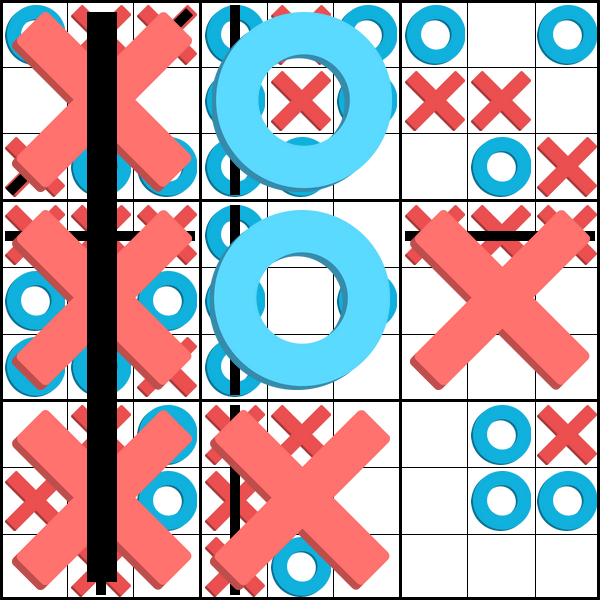
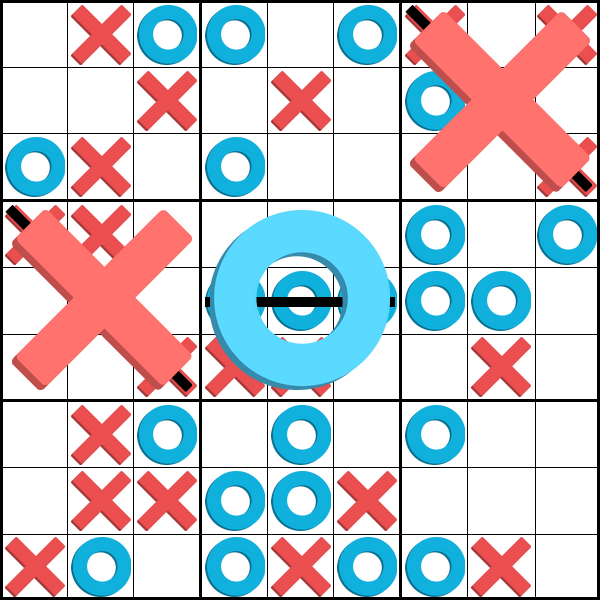
Worked on async function for node-canvas

diff --git a/src/imagecomp-canvas.js b/src/imagecomp-canvas.js
@@ -5,18 +5,60 @@ const { spacePositions, squares, innerSquares } = require('../json/uttt.json');
 const canvas = nodeCanvas.createCanvas(600, 600);
 const ctx = canvas.getContext('2d');
 
-function repeat() {
-	nodeCanvas.loadImage('images/board.png').then(board => {
-		ctx.drawImage(board, 0, 0);
-		nodeCanvas.loadImage('images/tictactoe_O.png').then(piece_O => {
-			const randOne = Math.floor(Math.random() * squares.length);
-			const randTwo = Math.floor(Math.random() * innerSquares.length);
+const boardstate = [];
+let player = 'X';
+let buffer = canvas.toBuffer('image/png');
 
-			ctx.drawImage(piece_O, spacePositions[squares[randOne] + innerSquares[randTwo]][0], spacePositions[squares[randOne] + innerSquares[randTwo]][1], 60, 60);
-			const buffer = canvas.toBuffer('image/png');
-			fs.writeFileSync('./images/image.png', buffer);
+const numTimes = Math.floor(Math.random() * (10 - 1) + 1); // The maximum is exclusive and the minimum is inclusive
+for(let i = 0; i < numTimes; i++) {
+	boardstate.push(`${player}${squares[Math.floor(Math.random() * squares.length)]}${innerSquares[Math.floor(Math.random() * innerSquares.length)]}`);
+	(player === 'X') ? player = 'O' : player = 'X';
+}
+
+// https://stackoverflow.com/questions/18983138/callback-after-all-asynchronous-foreach-callbacks-are-completed
+nodeCanvas.loadImage('images/board.png').then(board => {
+	ctx.drawImage(board, 0, 0);
+	buffer = canvas.toBuffer('image/png');
+
+	const requests = boardstate.map((e) => {
+		return new Promise((resolve) => {
+			if(e.charAt(0) === 'X') {
+				drawX(e.substring(1), resolve);
+			}
+			else {
+				drawO(e.substring(1), resolve);
+			}
+			// asyncFunction(item, resolve);
 		});
+	});
+
+	Promise.all(requests).then(() => {
+		console.log('done');
+		fs.writeFileSync('./images/image.png', buffer);
+	});
+	/*
+	boardstate.forEach(e => {
+		if(e.charAt(0) === 'X') {
+			drawX(e.substring(1));
+		}
+		else {
+			drawO(e.substring(1));
+		}
+	});
+	fs.writeFileSync('./images/image.png', buffer);
+	*/
+});
+
+async function drawO(piece) {
+	nodeCanvas.loadImage('images/tictactoe_O.png').then(piece_O => {
+		ctx.drawImage(piece_O, spacePositions[piece][0], spacePositions[piece][1], 60, 60);
+		buffer = canvas.toBuffer('image/png');
 	});
 }
 
-setInterval(repeat, 2000);
+async function drawX(piece) {
+	nodeCanvas.loadImage('images/tictactoe_X.png').then(piece_X => {
+		ctx.drawImage(piece_X, spacePositions[piece][0], spacePositions[piece][1], 60, 60);
+		buffer = canvas.toBuffer('image/png');
+	});
+}
